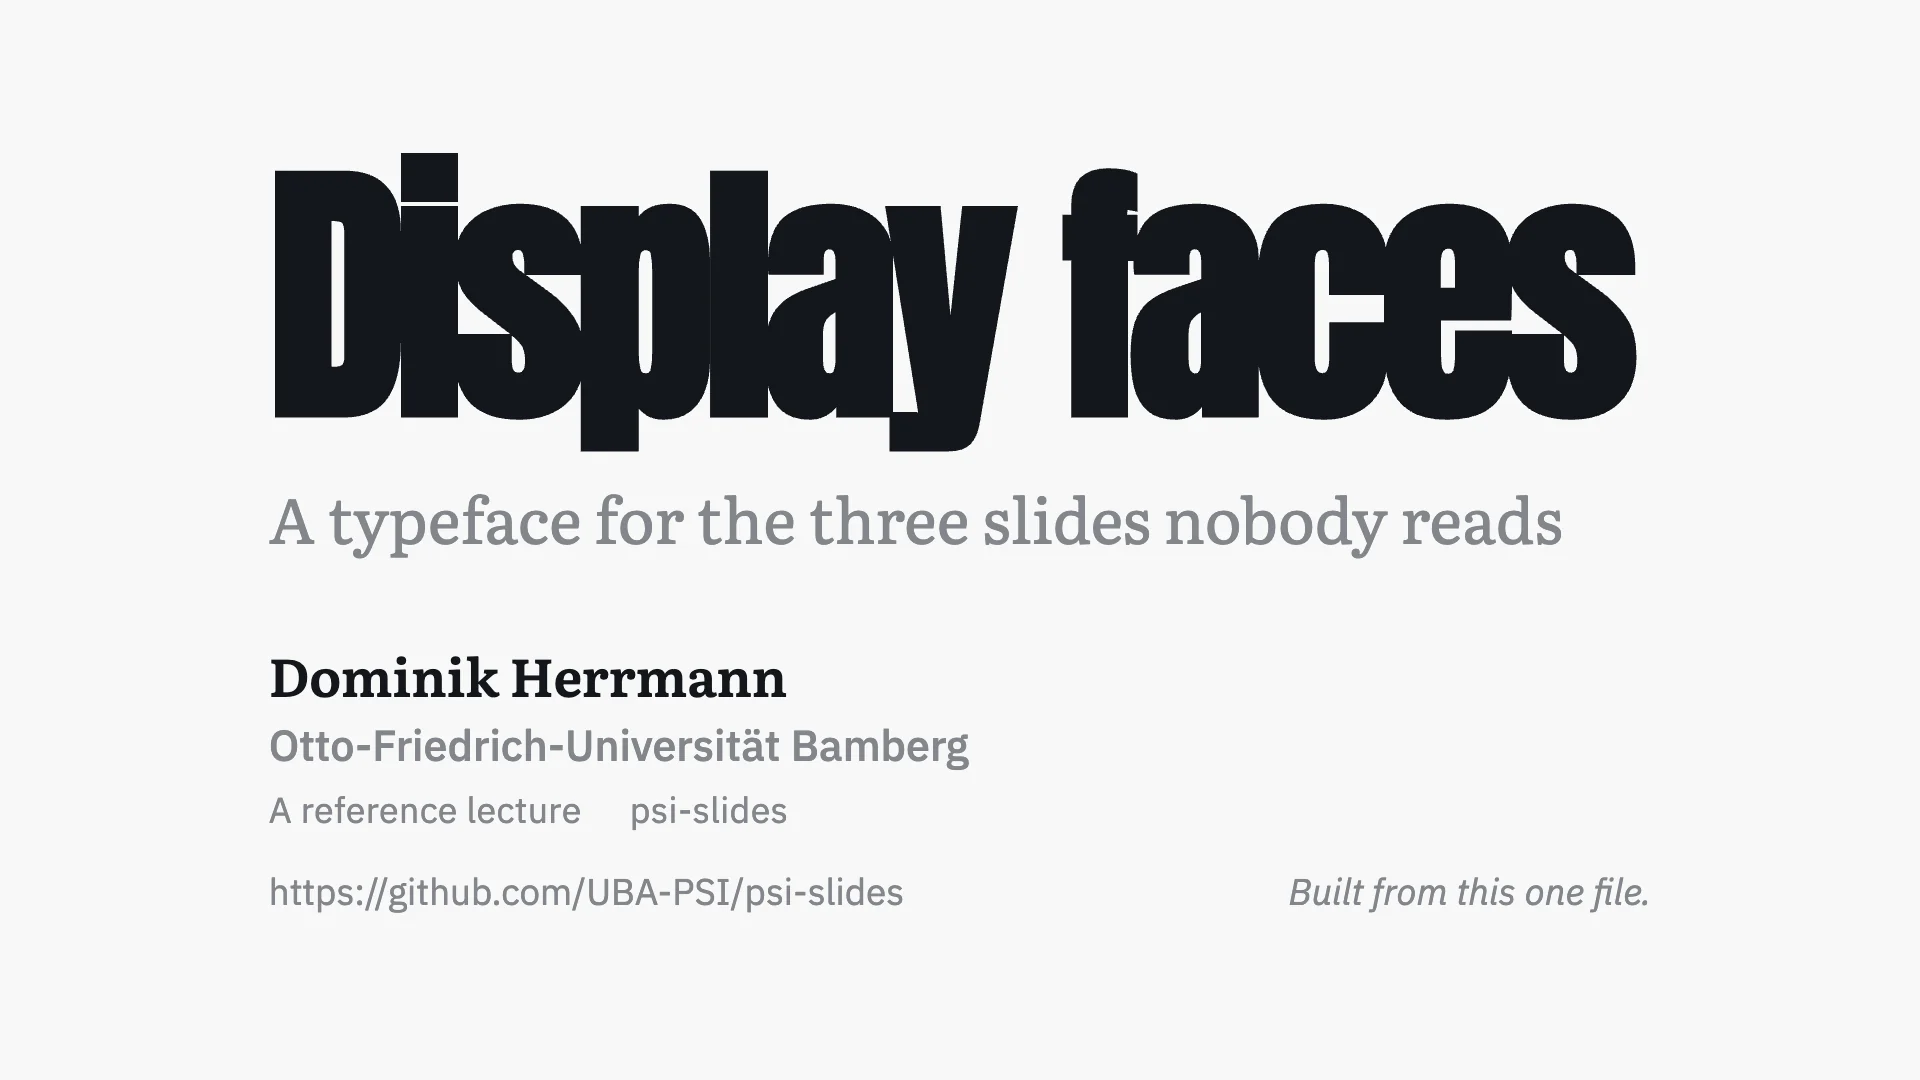
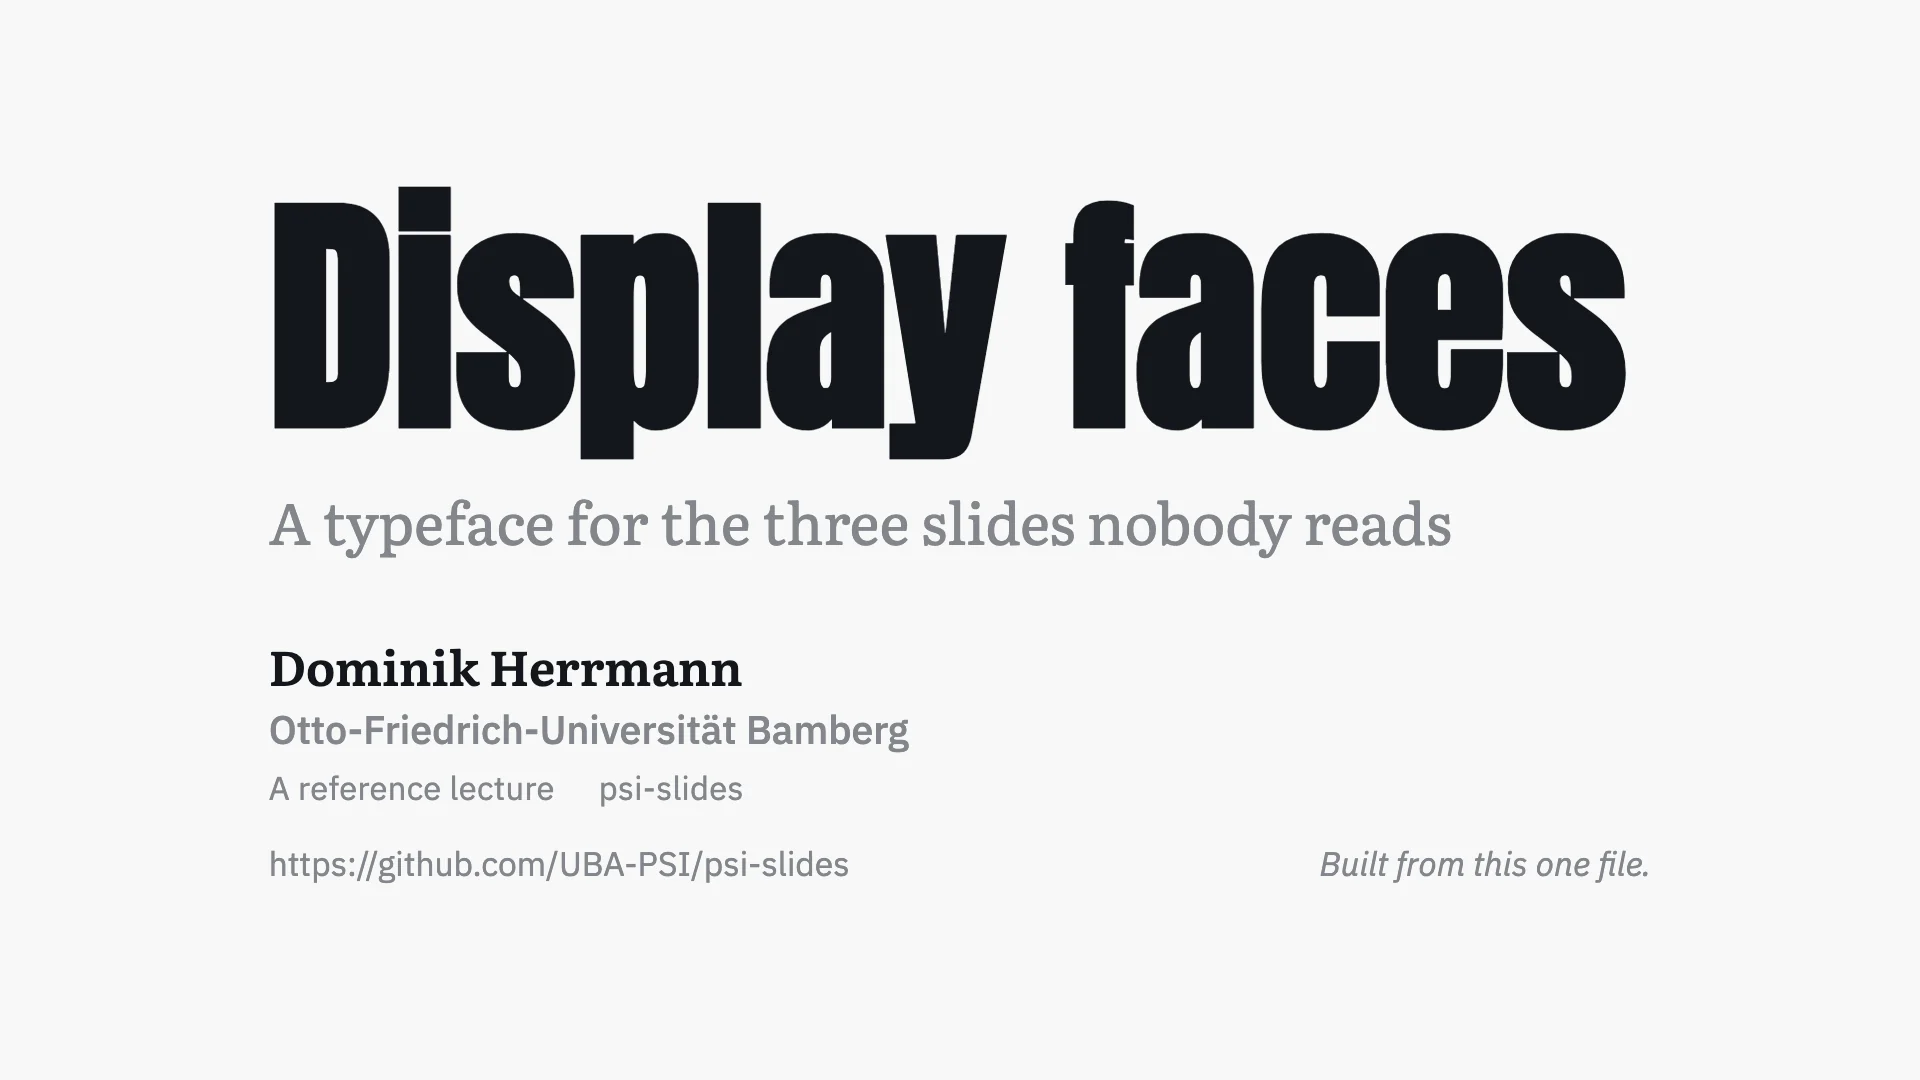
A display face keeps the tracking its designer gave it
Reported from the project site, where "Display faces" had its letters
touching. The cause is the line-height bug one property over: every cover
composition sets a negative letter-spacing on its title, because that is
what a serif set large needs, and `cover: display` sets the tightest of the
ten at -0.042em. Anton is condensed and tightly fitted already, so -0.042em
on top of it collides. The divider only looked straight because its -0.02em
is a quarter as much.

So DISPLAY_TRACK lists every rule that tracks a slot the face wears, per
view, and the conditional block resets them to normal. One rule with a
selector list rather than the value table DISPLAY_LH needs, because the
answer is the same everywhere: a display face is fitted by the person who
drew it, and the deck's correction is a correction for Literata.

The eyebrow kicker is deliberately not in the list. Under headline: eyebrow
the face is on the subtitle, so the kicker keeps its own 0.015em, or the
0.055em `caps: on` gives capitals.

A gate re-reads both stylesheets and fails if a rule tracks such a slot
without being listed - checked in both directions, by dropping a selector
and by adding an eleventh composition. It exists because a list of selectors
is exactly the thing that rots: a new cover with a tracking of its own would
put the collision back on that variant alone, silently, on a deck nobody
here builds. Its scan blanks the template interpolations first; braces
[…]

diff --git a/build.js b/build.js
@@ -1535,6 +1535,41 @@ function displayLh(view, sel) {
   return v;
 }
 
+// The same oversight as the line heights, found later and by eye rather than
+// by a gate: tracking chosen for the body serif was reaching a face that never
+// asked for it. `cover: display` sets `letter-spacing: -0.042em`, because it
+// sets the title largest and a serif at that size wants tightening - and Anton,
+// already condensed and tightly fitted, came out with its letters touching.
+// The divider only looked straight because its -0.02em is a quarter of that.
+//
+// So every rule that sets tracking on a slot the display face wears is listed
+// here and reset to `normal` in the conditional block: a display face is fitted
+// by the person who drew it, and the deck's correction is a correction for
+// Literata. The eyebrow kicker is deliberately absent from both lists - under
+// `headline: eyebrow` the face is on the subtitle and the kicker keeps its own
+// 0.015em, or 0.055em when `caps: on` tracks the capitals.
+//
+// Kept complete by `node test/gates/run.mjs display-track`, which re-reads both
+// stylesheets: a new cover composition with a tracking of its own is otherwise
+// exactly the change that would put the collision back without saying so.
+const DISPLAY_TRACK = {
+  print: [
+    'body[data-headline=eyebrow] .chunk-title .title-subtitle',
+    '.chunk-title[data-cover=display] .title-main',
+  ],
+  live: [
+    '.chunk-title .title-main',
+    'body[data-headline=eyebrow] .chunk-title .title-subtitle',
+    '.chunk[data-cover=masthead] .title-main',
+    '.chunk[data-cover=display] .title-main',
+    '.chunk[data-cover=panel] .title-main',
+    '.chunk[data-cover=quote] .title-main',
+    '.chunk[data-cover=hero] .title-main',
+    '.chunk[data-cover=quote][data-closing] .title-main',
+    '.chunk-section .section-heading',
+  ],
+};
+
 const normFontName = (s) => String(s).toLowerCase().replace(/[\s_-]/g, '');
 
 // A filename is `<family><sep><descriptor>` or just `<family>`. The
@@ -1804,6 +1839,11 @@ function fontStyleTag(embed, view) {
       `.chunk-title .title-main,\n.chunk-section .section-heading { ${wears} }`,
       `body[data-headline=eyebrow] .chunk-title .title-main { font-family: var(--body-font); }`,
       `body[data-headline=eyebrow] .chunk-title .title-subtitle { ${wears} }`,
+      // Emitted whatever the size-adjust is, unlike the line heights below:
+      // the tracking is wrong for a display face at any size, and an author
+      // face from fonts/ carries no measurement but is just as badly served
+      // by a correction meant for the body serif.
+      `${DISPLAY_TRACK[view].join(',\n')} { letter-spacing: normal; }`,
     ].join('\n');
     // Both lists, because a display face can come from the bundle or from
     // fonts/, and it is the same list faceCss walks two lines above. The

diff --git a/.claude/skills/psi-slides-appearance/SKILL.md b/.claude/skills/psi-slides-appearance/SKILL.md
@@ -157,6 +157,8 @@ These faces disagree about **advance width by a factor of three** while the cove
 
 **A numeric `line-height` does not follow `size-adjust`** – it resolves against the *nominal* font-size, so Anton at 120% put 98.6px of apparent type in a 90.3px line box and the descenders of one line landed inside the letters of the next. That is why `DISPLAY_LH` exists: the seven line-heights the display face can wear are JS constants interpolated into the stylesheets (`1.1` emits the characters `1.1`, which is what keeps byte identity) and restated in the conditional block multiplied by the same percentage. **Three of the seven are deliberate and unequal** – 1.3 for the eyebrow kicker, 1.02/0.97 under `cover: display`, and in print the eyebrow subtitle carries 1.12 where the title carries 1.15. A single overriding rule would have flattened them.
 
+**The tracking is the same trap, one property over.** Every cover composition sets a negative `letter-spacing` on its title &ndash; `cover: display` the tightest at `-0.042em` &ndash; because that is what a serif set large needs. On Anton, condensed and tightly fitted already, the letters touched. `DISPLAY_TRACK` lists every rule that tracks a slot the face wears, per view, and the conditional block resets them to `normal`: a display face is fitted by its designer, and the deck's correction is a correction for Literata. **The eyebrow kicker is deliberately absent from the list** &ndash; under `headline: eyebrow` the face is on the subtitle, so the kicker keeps its own `0.015em`, or `0.055em` when `caps: on` tracks the capitals. `node test/gates/run.mjs tails` re-reads both stylesheets and fails if a rule tracks such a slot and is not listed; it was written because an eleventh composition with a tracking of its own is exactly the change that would put the collision back on one variant and say nothing. The scan has to blank `${…}` interpolations first &ndash; braces inside them break a brace-counting parse, and on the first pass that hid four rules including the `-0.042em` the whole reset exists for.
+
 **Width is normalised because line count is the failure that breaks a slide**, and apparent size varies as a consequence: against Literata's ink height, Silkscreen lands at 0.38 and Patrick Hand at 1.34. Rendered, a Silkscreen divider is a thin band on an empty frame while Anton fills it. No automatic correction fixes that without bringing the overflow back – pulling Silkscreen's ink to 0.85 needs a scale of ~1.39, at which it sets 2.2× Literata's width. So the build answers the question it can measure and `style: {display-scale: …}` answers the one that is taste.
 
 ### `style: {display-scale: <n>}`

diff --git a/CHANGELOG.md b/CHANGELOG.md
@@ -246,6 +246,19 @@ from building the same way is a major version.
   subtitle's 1.12 against the title's 1.15), so a single overriding rule
   would have flattened them.
 
+  **The tracking is the same story as the line height and was caught later.**
+  Every composition sets a negative `letter-spacing` on its title, because it
+  is a correction for a serif set large &ndash; `cover: display` sets `-0.042em`,
+  the tightest of the ten. Applied to Anton, which is condensed and tightly
+  fitted already, the letters touched. A display face is fitted by the person
+  who drew it, so `DISPLAY_TRACK` lists every rule that tracks a slot the face
+  wears and the conditional block resets them to `normal`. The eyebrow kicker
+  is deliberately not in the list: under `headline: eyebrow` the face is on the
+  subtitle, and the kicker keeps its own tracking. A gate re-reads both
+  stylesheets and fails if a rule tracks such a slot without being listed,
+  because an eleventh cover composition is otherwise exactly the change that
+  puts the collision back on one variant, in silence.
+
   Under `style: {headline: eyebrow}` the face **follows the loud line**:
   `.title-subtitle` wears it and `.title-main` is handed back to the body
   font explicitly, because left merely unmentioned the unqualified rule
